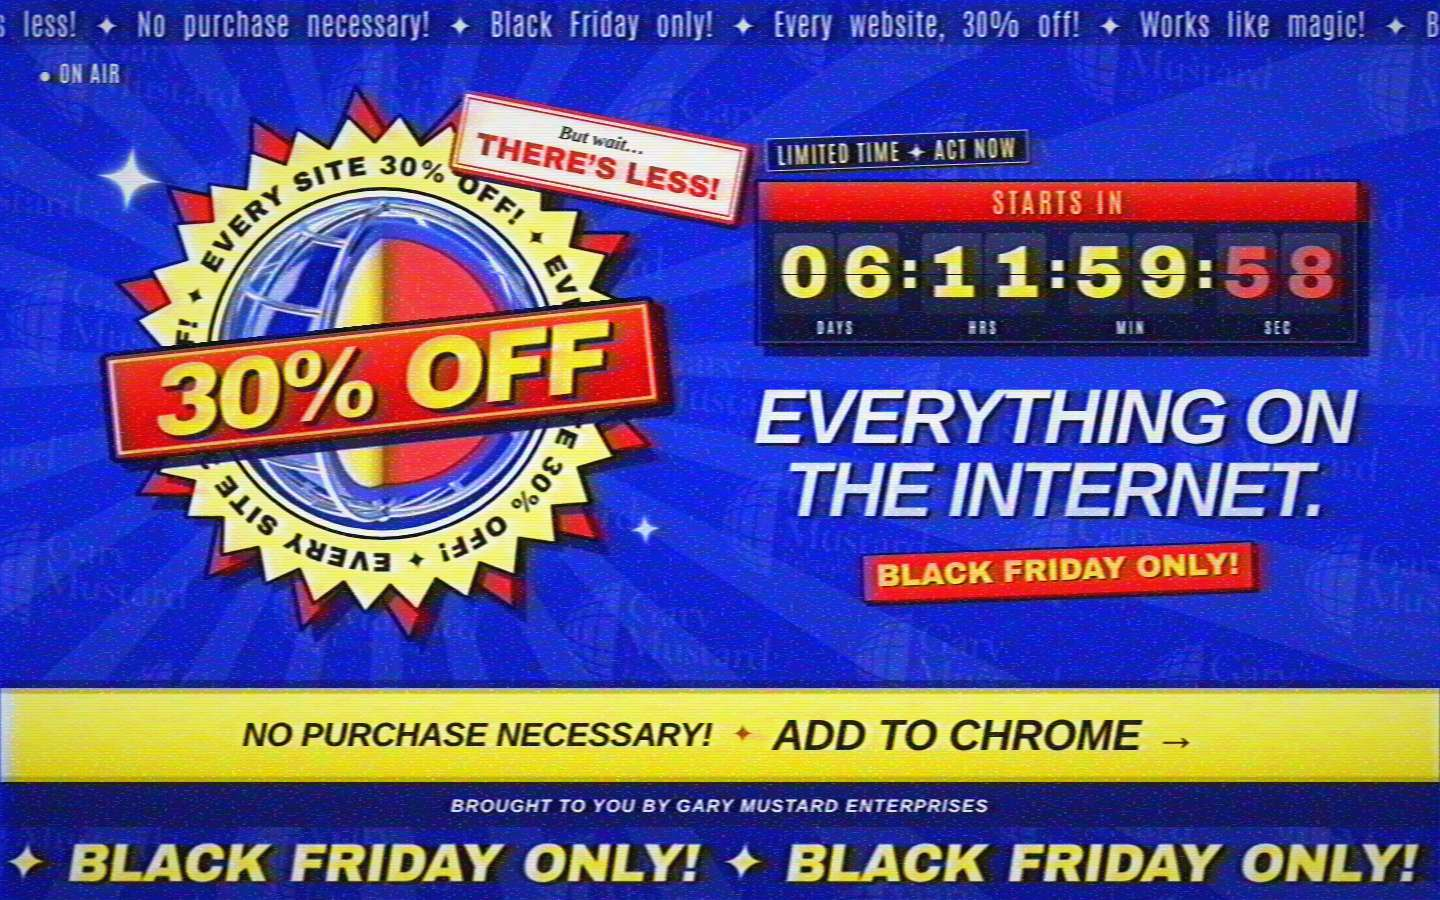
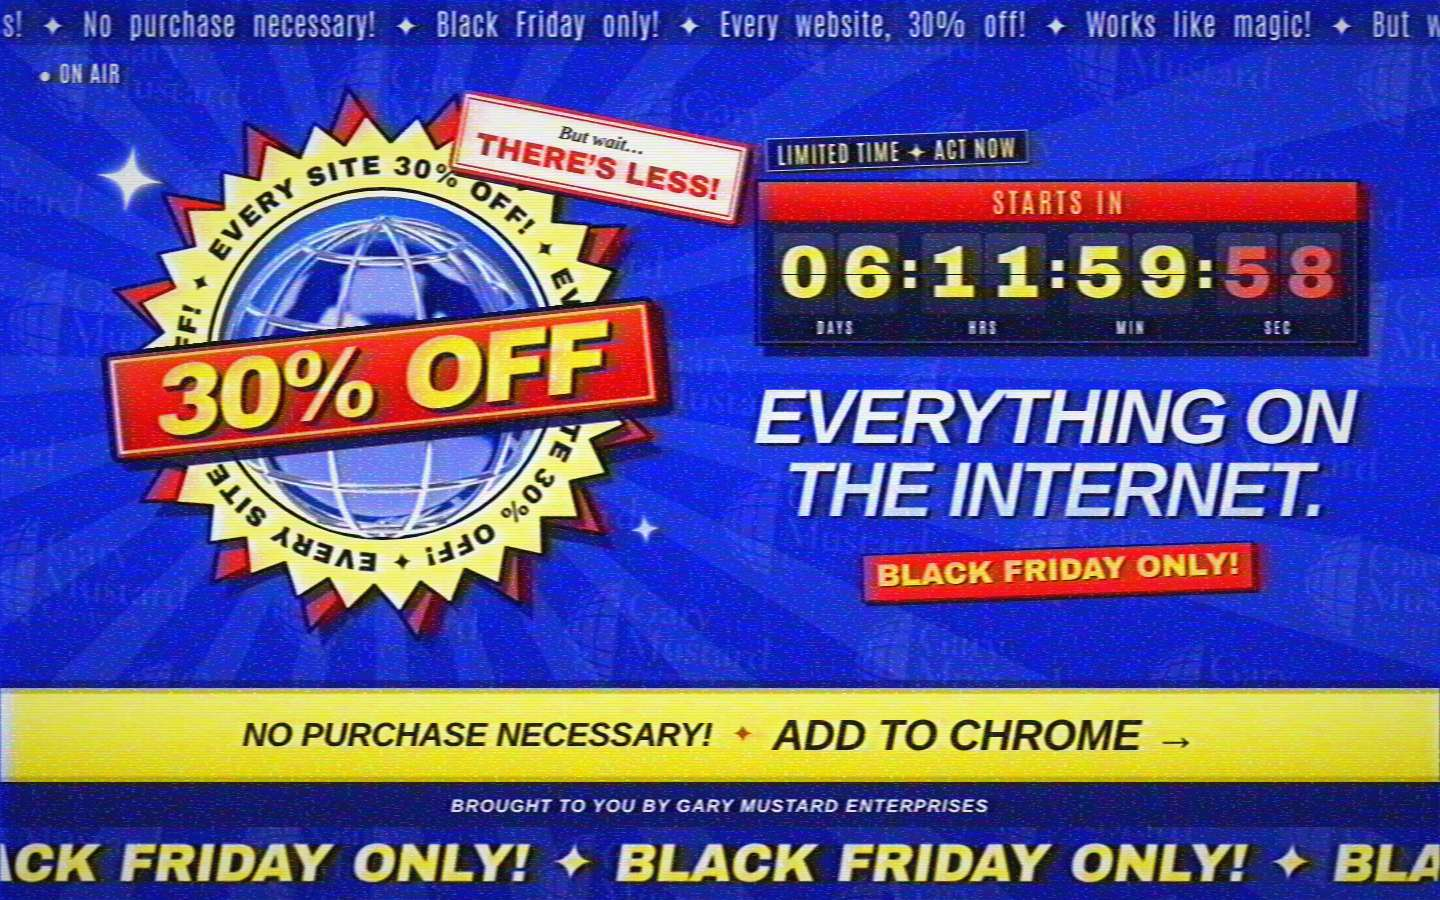
Website: work in progress on the Globe Badge look
Claude-Session: https://claude.ai/code/session_01NWuCfpnnkXbDHA2WA7GWBY

diff --git a/website/src/index.html b/website/src/index.html
@@ -4,14 +4,14 @@
 <meta charset="utf-8">
 <meta name="viewport" content="width=device-width, initial-scale=1, viewport-fit=cover">
 <title>30% Off EVERYTHING</title>
-<meta name="description" content="A Black Friday treat for your browser: 30% off every website you visit. Black Friday only.">
+<meta name="description" content="A Black Friday treat for your browser. Every website, 30% off! Black Friday only!">
 <meta name="theme-color" content="#0a1cc4">
 <meta name="color-scheme" content="only light">
 <link rel="icon" type="image/png" sizes="32x32" href="favicon.png">
 <meta property="og:type" content="website">
 <meta property="og:site_name" content="30% Off EVERYTHING">
 <meta property="og:title" content="30% Off EVERYTHING">
-<meta property="og:description" content="A Black Friday treat for your browser: 30% off every website you visit. Black Friday only.">
+<meta property="og:description" content="A Black Friday treat for your browser. Every website, 30% off! Black Friday only!">
 <meta property="og:url" content="%SITE%">
 <meta property="og:image" content="%SITE%og.png">
 <meta property="og:image:type" content="image/png">
@@ -20,7 +20,7 @@
 <meta property="og:image:alt" content="30% OFF EVERYTHING ON THE INTERNET. BLACK FRIDAY ONLY!">
 <meta name="twitter:card" content="summary_large_image">
 <meta name="twitter:title" content="30% Off EVERYTHING">
-<meta name="twitter:description" content="A Black Friday treat for your browser: 30% off every website you visit. Black Friday only.">
+<meta name="twitter:description" content="A Black Friday treat for your browser. Every website, 30% off! Black Friday only!">
 <meta name="twitter:image" content="%SITE%og.png">
 <link rel="preload" href="fonts/archivo-black.woff2" as="font" type="font/woff2" crossorigin>
 <link rel="preload" href="fonts/arimo-bold-italic.woff2" as="font" type="font/woff2" crossorigin>

diff --git a/website/src/main.js b/website/src/main.js
@@ -34,8 +34,8 @@ const offset = FORCED == null ? 0 : FORCED - wall0;
 const now = () => (FREEZE ? wall0 + offset : Date.now() + offset);
 const seconds = () => (FREEZE ? 2.2 : (performance.now() - perf0) / 1000);
 
-// ---- WebGL: the background under the page and the tape over it ----
-let bg = null, tile = null;
+// ---- WebGL: the background under the page (the tape look over it is the SVG filter in index.html) ----
+let bg = null;
 try {
   bg = layer($('#bg'), BG);
 } catch { bg = null; }
@@ -43,7 +43,7 @@ if (!bg) set('nogl', true);
 $('#bg').addEventListener('webglcontextlost', (e) => { e.preventDefault(); bg = null; set('nogl', true); });
 if (bg) {
   const img = new Image();
-  img.onload = () => { if (bg) { tile = bg.texture(img, 0); draw(seconds(), true); } };
+  img.onload = () => { if (bg) { bg.texture(img, 0); draw(seconds()); } };
   img.src = TILE;
 }
 
@@ -164,12 +164,12 @@ function layout() {
     bg.size(W, H, px);
     geo.px = px;
   }
-  draw(seconds(), true);
+  draw(seconds());
 }
 
 // ---- drawing: classes on the beat, and the WebGL background ----
 let ang = 0, lastT = 0;
-function draw(t, force = false) {
+function draw(t) {
   const bf = mode === 'today';
   const dt = Math.min(0.1, Math.max(0, t - lastT)); lastT = t;
   const beatN = Math.floor(t / BEAT), onBeat = bf && MOVING && beatN % 2 === 1;

diff --git a/website/src/style.css b/website/src/style.css
@@ -39,7 +39,7 @@ body { -webkit-font-smoothing: antialiased; -webkit-tap-highlight-color: transpa
        background: linear-gradient(#fff 35%, #c5d4fb 100%); -webkit-background-clip: text; background-clip: text; color: transparent;
        filter: drop-shadow(0.045em 0.045em 0 rgba(6, 8, 70, 0.95)); padding: 0 0.1em 0.06em 0; }
 
-/* ---- the bands: Garrett's ticker along the top, the crawl along the bottom ---- */
+/* ---- the bands: the ticker along the top, the crawl along the bottom ---- */
 .run { white-space: nowrap; overflow: hidden; flex: 1; min-width: 0; }
 .run > span { display: inline-block; will-change: transform; }
 .moving .run > span { animation: run var(--dur, 20s) linear infinite; }
